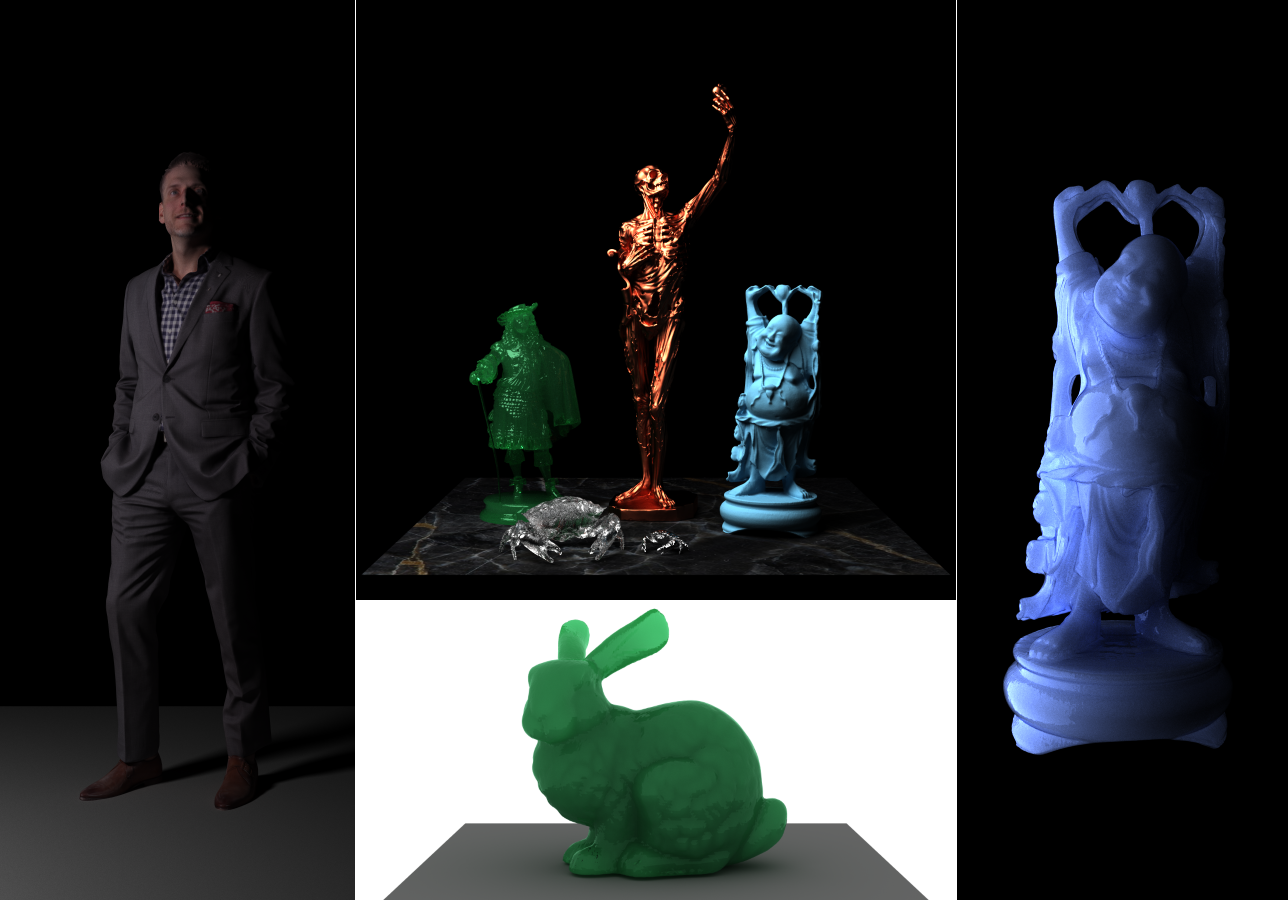
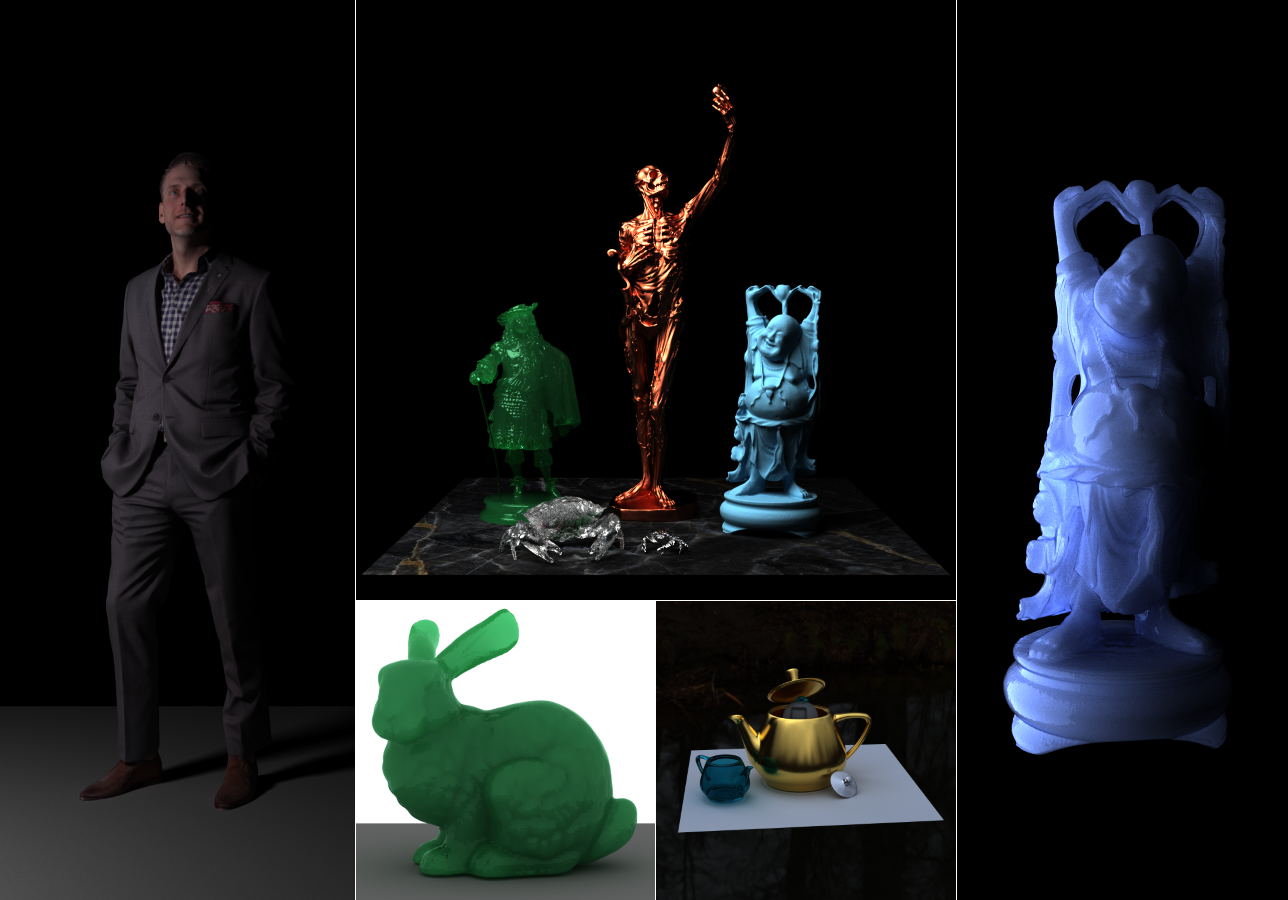
implemented sh2d cli

Changed region(s): [[0.2795, 0.6533, 0.7453, 1.0]]

diff --git a/Source/Atrc/SH2D/Main.cpp b/Source/Atrc/SH2D/Main.cpp
@@ -8,9 +8,9 @@
 #include <Atrc/Mgr/Parser.h>
 #include <Atrc/Mgr/SceneBuilder.h>
 #include <Atrc/SH2D/Scene2SH.h>
-#include "Light2SH.h"
+#include <Atrc/SH2D/Light2SH.h>
 
-void ProjectScene(const AGZ::Config &config, std::string_view configPath, std::string_view outputDir)
+void ProjectScene(const AGZ::Config &config, const std::string &configPath, const std::string &outputDir)
 {
     using namespace Atrc;
 
@@ -27,6 +27,18 @@ void ProjectScene(const AGZ::Config &config, std::string_view configPath, std::s
     int SHOrder = root["SHOrder"].Parse<int>();
     int workerCount = root["workerCount"].Parse<int>();
     int taskGridSize = root["taskGridSize"].Parse<int>();
+
+    if(SHOrder < 0 || SHOrder > 4)
+    {
+        std::cout << "Invalid SHOrder value: " << SHOrder << std::endl;
+        return;
+    }
+
+    if(taskGridSize <= 0)
+    {
+        std::cout << "Invalid taskGridSize value: " << taskGridSize << std::endl;
+        return;
+    }
 
     int SHC = SHOrder * SHOrder;
     std::vector<Film> coefs;
@@ -61,7 +73,7 @@ void ProjectScene(const AGZ::Config &config, std::string_view configPath, std::s
     saveToHDR("normal.hdr", normal);
 }
 
-void ProjectLight(const AGZ::Config &config, std::string_view configPath, std::string_view outputFilename)
+void ProjectLight(const AGZ::Config &config, const std::string &configPath, const std::string &outputFilename)
 {
     using namespace Atrc;
 
@@ -74,6 +86,12 @@ void ProjectLight(const AGZ::Config &config, std::string_view configPath, std::s
 
     int SHOrder = root["SHOrder"].Parse<int>();
     int SHC = SHOrder * SHOrder;
+
+    if(SHOrder < 0 || SHOrder > 4)
+    {
+        std::cout << "Invalid SHOrder value: " << SHOrder << std::endl;
+        return;
+    }
 
     std::vector<Spectrum> coefs(SHC);
     Light2SH(light, SHOrder, N, coefs.data());
@@ -97,6 +115,88 @@ void ProjectLight(const AGZ::Config &config, std::string_view configPath, std::s
         std::cout << "Failed to save light coefs to " << outputFilename << std::endl;
 }
 
+void ReconstructImage(
+    int SHOrder, const std::string &lightFilename,
+    const std::string *sceneCoefFilenames,
+    const std::string &albedoFilename,
+    const std::string &outputFilename)
+{
+    using namespace Atrc;
+
+    int SHC = SHOrder * SHOrder;
+    if(SHOrder < 0 || SHOrder > 4)
+    {
+        std::cout << "Invalid SHOrder value: " << SHOrder << std::endl;
+        return;
+    }
+
+    std::ifstream fin(lightFilename);
+    if(!fin)
+    {
+        std::cout << "Failed to open light coef file: " << lightFilename << std::endl;
+        return;
+    }
+
+    int fileSHOrder;
+    fin >> fileSHOrder;
+    if(!fin || fileSHOrder < SHOrder)
+    {
+        std::cout << "Invalid light SHOrder in file: " << lightFilename << std::endl;
+        return;
+    }
+
+    std::vector<Spectrum> lightCoefs(SHC);
+    for(int i = 0; i < SHC; ++i)
+    {
+        fin >> lightCoefs[i].r >> lightCoefs[i].g >> lightCoefs[i].b;
+        if(!fin)
+        {
+            std::cout << "Failed to load light coefs from file: " << lightFilename << std::endl;
+            return;
+        }
+    }
+
+    fin.close();
+
+    std::vector<Image> sceneCoefs(SHOrder);
+    for(int i = 0; i < SHC; ++i)
+    {
+        sceneCoefs[i] = AGZ::TextureFile::LoadRGBFromHDR(sceneCoefFilenames[i]);
+        if(i > 0 && sceneCoefs[i].GetSize() != sceneCoefs[i - 1].GetSize())
+        {
+            std::cout << "Invalid scene coef image size" << std::endl;
+            return;
+        }
+    }
+
+    Image albedo;
+    if(!albedoFilename.empty())
+    {
+        albedo = AGZ::TextureFile::LoadRGBFromHDR(albedoFilename);
+        if(albedo.GetSize() != sceneCoefs[0].GetSize())
+        {
+            std::cout << "Invalid albedo image size" << std::endl;
+            return;
+        }
+    }
+
+    Image ret(albedo.GetWidth(), albedo.GetHeight());
+    for(uint32_t y = 0; y < ret.GetHeight(); ++y)
+    {
+        for(uint32_t x = 0; x < ret.GetWidth(); ++x)
+        {
+            Spectrum pixel;
+            for(int i = 0; i < SHC; ++i)
+                pixel += sceneCoefs[i](x, y) * lightCoefs[i];
+            if(albedo.IsAvailable())
+                pixel *= albedo(x, y);
+            ret(x, y) = pixel;
+        }
+    }
+
+    AGZ::TextureFile::WriteRGBToHDR(outputFilename, ret);
+}
+
 int main(int argc, char *argv[])
 {
     try
@@ -104,9 +204,10 @@ int main(int argc, char *argv[])
         static const char USAGE_MSG[] = R"___(
     SH2D ps/project_scene scene_desc_filename output_dir_name
     SH2D pl/project_light light_desc_filename output_filename
+    SH2D rc/reconstruct   SH_order(0 to 4) light_coef_filename scene_coef_filenames... output_filename [albedo_filename]
 )___";
 
-        if(argc != 4)
+        if(argc < 2)
         {
             std::cout << USAGE_MSG << std::endl;
             return 0;
@@ -114,6 +215,12 @@ int main(int argc, char *argv[])
 
         if(argv[1] == std::string("ps") || argv[1] == std::string("project_scene"))
         {
+            if(argc != 4)
+            {
+                std::cout << USAGE_MSG << std::endl;
+                return 0;
+            }
+
             std::string filename = argv[2];
             std::string outputDir = argv[3];
 
@@ -134,6 +241,12 @@ int main(int argc, char *argv[])
         }
         else if(argv[1] == std::string("pl") || argv[1] == std::string("project_light"))
         {
+            if(argc != 4)
+            {
+                std::cout << USAGE_MSG << std::endl;
+                return 0;
+            }
+
             std::string filename = argv[2];
             std::string outputFilename = argv[3];
             auto outputDir = std::filesystem::path(outputFilename).parent_path();
@@ -152,6 +265,42 @@ int main(int argc, char *argv[])
             }
 
             ProjectLight(config, absolute(std::filesystem::path(filename)).parent_path().string(), outputFilename);
+        }
+        else if(argv[1] == std::string("rc") || argv[1] == std::string("reconstruct"))
+        {
+            if(argc < 4)
+            {
+                std::cout << USAGE_MSG << std::endl;
+                return 0;
+            }
+
+            int SHOrder = std::stoi(argv[2]);
+            if(SHOrder < 0 || SHOrder > 4)
+            {
+                std::cout << USAGE_MSG << std::endl;
+                return 0;
+            }
+
+            int SHC = SHOrder * SHOrder;
+            if(argc < 4 + SHC + 1 || argc > 4 + SHC + 2)
+            {
+                std::cout << USAGE_MSG << std::endl;
+                return 0;
+            }
+
+            std::string lightFilename = argv[3];
+
+            std::vector<std::string> sceneCoefFilenames(SHC);
+            for(int i = 0; i < SHC; ++i)
+                sceneCoefFilenames[i] = argv[4 + i];
+
+            std::string outputFilename = argv[4 + SHC];
+
+            std::string albedoFilename;
+            if(argc == 4 + SHC + 2)
+                albedoFilename = argv[4 + SHC + 1];
+
+            ReconstructImage(SHOrder, lightFilename, sceneCoefFilenames.data(), albedoFilename, outputFilename);
         }
         else
             std::cout << USAGE_MSG << std::endl;
